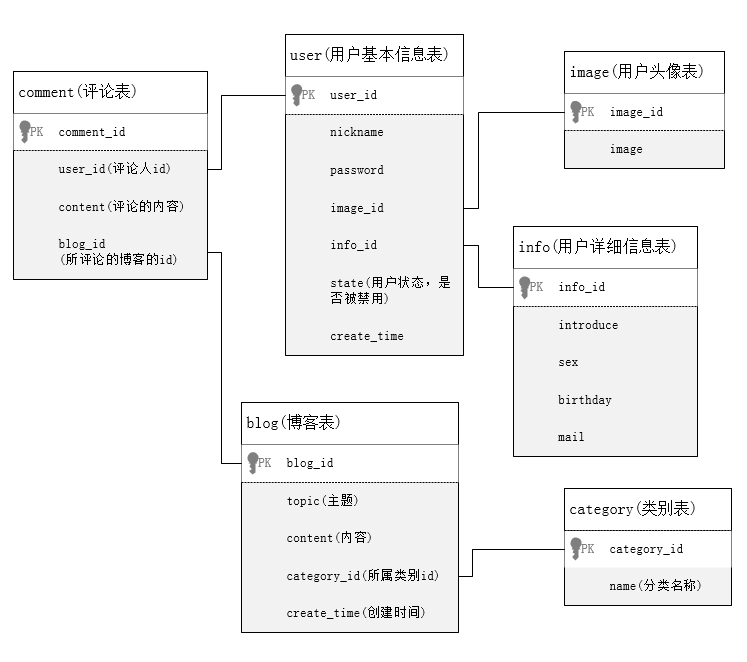
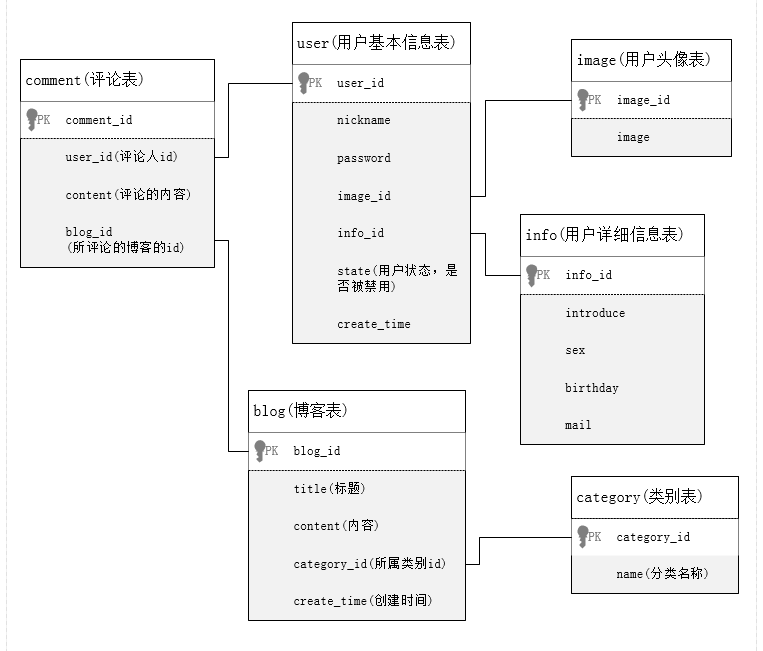
数据库设计图将topic改为title，用户注册登陆接口适应数据库变化更改

diff --git a/application/chac/controller/User.php b/application/chac/controller/User.php
@@ -1,6 +1,6 @@
 <?php
 namespace app\chac\controller;
-use app\chac\model\UserBase as UserBase;
+use app\chac\model\User as UserModel;
 use \think\Controller;
 
 
@@ -26,16 +26,16 @@ class User extends Controller
     public function reg($nickname,$password){
         $result=$this->validate(
             [
-                'name'=>$nickname,
+                'nickname'=>$nickname,
                 'password'=>$password,
             ],
             [
-                'name'=>'require|max:20',
+                'nickname'=>'require|max:20',
                 'password'=>'require|max:35',
             ]
         );
         if(true!==$result):
-            return ['code'=>200,'data'=>null,'message'=>'用户名或密码格式错误'];
+            return ['ret'=>200,'data'=>null,'message'=>'用户名或密码格式错误'];
         endif;
         $data=array(
             'nickname'=>$nickname,
@@ -44,7 +44,7 @@ class User extends Controller
         $re['uid']=0;
         $re['code']=0;
         $message='操作完成';
-        $model=new UserBase();
+        $model=new UserModel();
         $nicknameExist=$model->nicknameExist($nickname);
         if(!$nicknameExist):
             $re=$model->reg($data);
@@ -55,7 +55,7 @@ class User extends Controller
             $re['code']=2;
             $message='用户名已存在';
         endif;
-        $api=['code'=>200,'data'=>$re,'message'=>$message];
+        $api=['ret'=>200,'data'=>$re,'message'=>$message];
         return $api;
     }
 
@@ -74,22 +74,22 @@ class User extends Controller
         header('Access-Control-Allow-Methods: GET, POST, PUT');*/
         $result=$this->validate(
             [
-                'name'=>$nickname,
+                'nickname'=>$nickname,
                 'password'=>$password,
             ],
             [
-                'name'=>'require|max:20',
+                'nickname'=>'require|max:20',
                 'password'=>'require|max:35',
             ]
         );
         if(true!==$result):
-            return ['code'=>200,'data'=>null,'message'=>'用户名或密码格式错误'];
+            return ['ret'=>200,'data'=>null,'message'=>'用户名或密码格式错误'];
         endif;
         $data=array(
             'nickname'=>$nickname,
             'password'=>$password,
         );
-        $model=new UserBase();
+        $model=new UserModel();
         $re=$model->login($data);
         if($re['code']):
             $message='登陆成功';
@@ -99,7 +99,7 @@ class User extends Controller
         else:
             $message='用户名或密码错误';
         endif;
-        $api=['code'=>200,'data'=>$re,'message'=>$message];
+        $api=['ret'=>200,'data'=>$re,'message'=>$message];
         return $api;
     }
 

diff --git a/application/chac/model/User.php b/application/chac/model/User.php
@@ -3,7 +3,7 @@ namespace app\chac\model;
 
 use think\Model;
 
-class UserBase extends Model
+class User extends Model
 {
 
 
@@ -13,18 +13,18 @@ class UserBase extends Model
 
     public function reg($data){
         $time = date('Y-m-d H:i:s',time());
-        $user = new UserBase([
-            'name'  =>  $data['nickname'],
+        $user = new User([
+            'nickname'  =>  $data['nickname'],
             'password' =>  $data['password'],
-            'createTime'=>$time,
+            'create_time'=>$time,
         ]);
         $re['code']=$user->save();
-        $re['uid']=$user->id;
+        $re['uid']=$user->user_id;
         return $re;
     }
 
     public function login($data){
-        $user=UserBase::get(['name'=>$data['nickname']]);
+        $user=User::get(['nickname'=>$data['nickname']]);
         $re=array(
             'code'=>null,
             'uid'=>null,
@@ -33,7 +33,7 @@ class UserBase extends Model
             $re['code']=0;
         elseif($user->password==$data['password']):
             $re['code']=1;
-            $re['uid']=$user->id;
+            $re['uid']=$user->user_id;
         else:
             $re['code']=0;
         endif;
@@ -49,7 +49,7 @@ class UserBase extends Model
      * 检查用户名是否已存在
      */
     public function nicknameExist($nickname){
-        $user=UserBase::get(['name'=>$nickname]);
+        $user=User::get(['nickname'=>$nickname]);
         return $user;
     }
 

diff --git a/application/chac/model/Blog.php b/application/chac/model/Blog.php
@@ -4,11 +4,11 @@ namespace app\chac\model;
 use think\Model;
 use think\DB;
 
-class BlogBase extends Model
+class Blog extends Model
 {
     public function publish($data){
         $time = date('Y-m-d H:i:s',time());
-        $blog=new BlogBase([
+        $blog=new Blog([
             'user_base_id'=>$data['uid'],
             'title'=>$data['title'],
             'content'=>$data['content'],
@@ -18,7 +18,7 @@ class BlogBase extends Model
     }
 
     public function getIndexBlog(){
-        $data=Db::table('blog_base')->where('id',1)->find();
+        $data=Db::table('blog')->where('id',1)->find();
         print_r($data);
         return  $data;
     }

diff --git a/application/chac/controller/Blog.php b/application/chac/controller/Blog.php
@@ -1,8 +1,7 @@
 <?php
 
-
 namespace app\chac\controller;
-use app\chac\model\BlogBase as BlogBase;
+use app\chac\model\Blog as BlogModel;
 use \think\Controller;
 
 session_start();
@@ -18,13 +17,13 @@ class Blog extends Controller
         if(!$data['uid']){
             return $api=['code'=>401,'data'=>$re,'message'=>'未登录'];
         }
-        $blog=new BlogBase();
+        $blog=new BlogModel();
         $re=$blog->publish($data);
         return $re;
     }
 
     public function getIndexBlog(){
-        $blog=new BlogBase();
+        $blog=new BlogModel();
         $re=$blog->getIndexBlog();
         return $re;
     }
